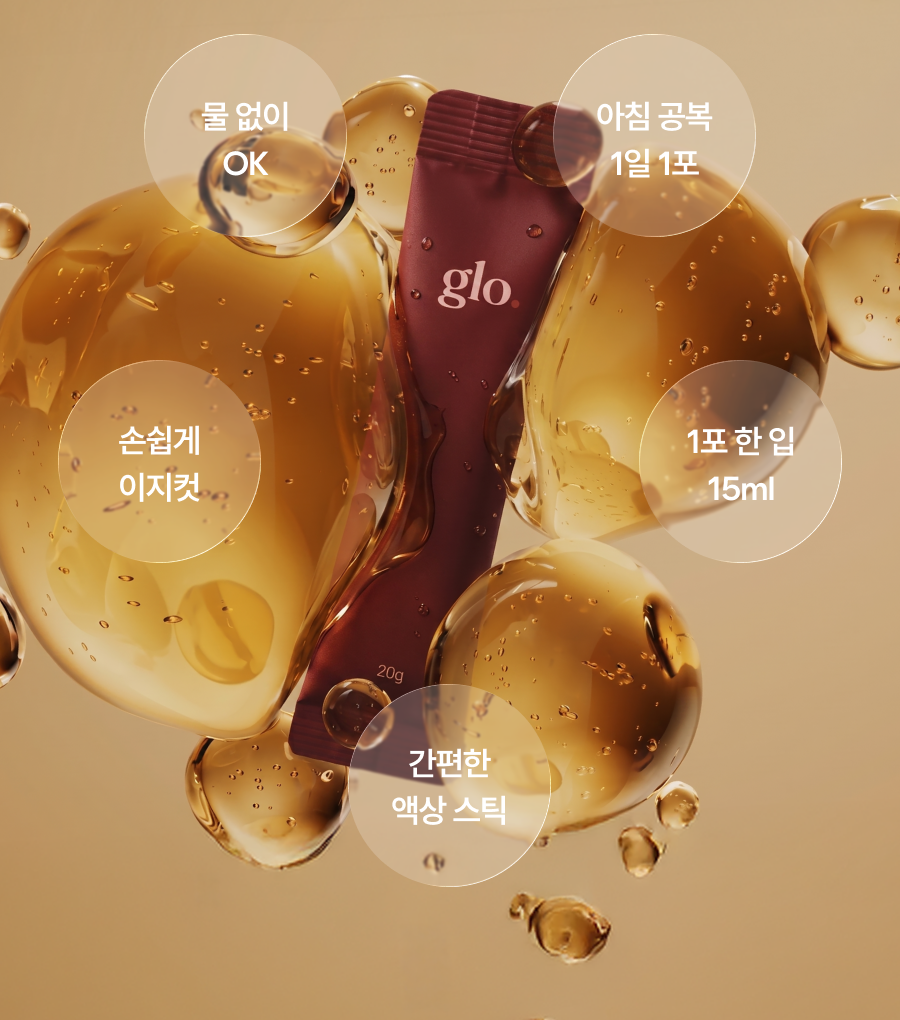
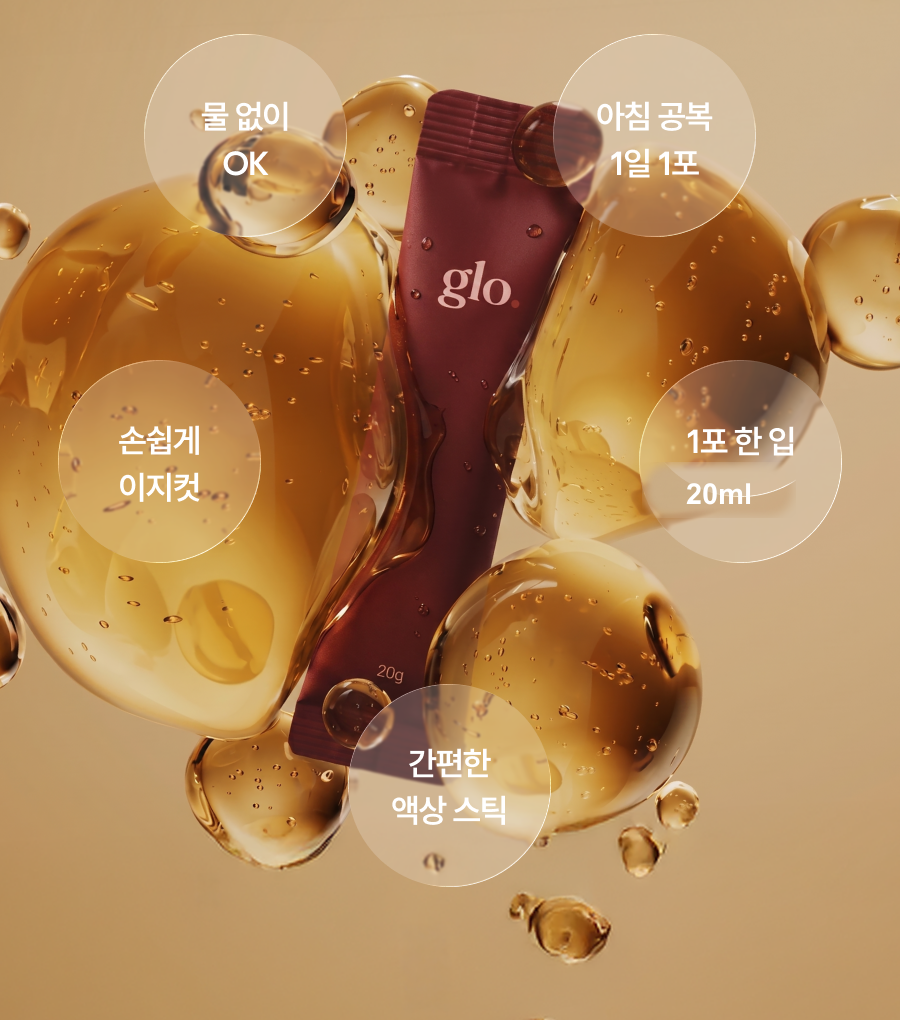
copy/ui(product): dose-validation + ritual + FAQ copy; cut how-to heading; patch image 15ml→20ml
- dose-validation h2 → '임상에서 사용한 용량 그대로 담았어요.'; '줄이지 않았습니다' → '줄이지도 초과하지도 않았습니다'
- ritual '조용한 매일.' and FAQ '정리.' choppy stops reworded into flowing sentences
- how-to section: removed the heading (How to drink / 이렇게 마십니다), image now fills the area
- howto-photo.png: patched the baked-in '15ml' label → '20ml'

Changed region(s): [[0.7156, 0.4559, 0.8711, 0.5167]]

diff --git a/ko/product.html b/ko/product.html
@@ -552,7 +552,7 @@ footer{background:var(--burg-800);padding:64px 0 32px;color:rgba(244,235,235,.6)
 .po-cmp-table .glo-col .po-cmp-sm{color:rgba(244,235,235,.7);}
 
 /* #6 how to drink */
-.po-how{background:#caad85;text-align:center;padding:clamp(60px,9vw,96px) 0 0;overflow:hidden;}
+.po-how{background:#caad85;text-align:center;padding:0;overflow:hidden;}
 .po-how .po-h{color:var(--ink);}
 .po-how-photo{display:block;width:100%;max-width:560px;margin:26px auto 0;-webkit-mask-image:linear-gradient(to bottom,transparent 0,#000 7%);mask-image:linear-gradient(to bottom,transparent 0,#000 7%);}
 
@@ -1109,10 +1109,6 @@ html[lang="ko"] p,html[lang="ko"] .ph-desc,html[lang="ko"] .t-sub,html[lang="ko"
 
 <!-- #6 음용법 — 원본 골든버블 사진 그대로 배경, 헤드라인만 CSS -->
 <section class="po-how">
-  <div class="ctr">
-    <div class="ey clay" style="justify-content:center;"><span class="dash"></span>How to drink</div>
-    <h2 class="po-h">이렇게 <em>마십니다.</em></h2>
-  </div>
   <img class="po-how-photo" src="/assets/images/howto-photo.png" alt="물 없이 OK · 아침 공복 1일 1포 · 1포 한 입 20ml · 손쉽게 이지컷 · 간편한 액상 스틱" width="900" height="1020"/>
 </section>
 
@@ -1122,7 +1118,7 @@ html[lang="ko"] p,html[lang="ko"] .ph-desc,html[lang="ko"] .t-sub,html[lang="ko"
     <div class="dt-head">
       <div>
         <div class="ey clay">Dose validation</div>
-        <h2 class="dt-h">임상에서 실제로<br/><em>사용 된</em> 용량.</h2>
+        <h2 class="dt-h">임상에서 사용한 용량<br/><em>그대로 담았어요.</em></h2>
       </div>
       <p class="dt-sub">아래는 실제 임상에서 사용된 용량과 GL-01 활성 성분의 대조 분석표입니다. 또한, 일반 타사 제품들의 평균 함량과 함께 분석해 보았습니다.<sup class="c">1–10</sup></p>
     </div>
@@ -1138,7 +1134,7 @@ html[lang="ko"] p,html[lang="ko"] .ph-desc,html[lang="ko"] .t-sub,html[lang="ko"
       <div class="vr"><div class="vc vn">Tightening-PB Complex®</div><div class="vc">— (proprietary)</div><div class="vc">OTC 미유통</div><div class="vc vg">10 mg · glo 특허 KR 10-2911449</div></div>
       <div class="vr"><div class="vc vn">Haematococcus extract (astaxanthin)</div><div class="vc">4–12 mg</div><div class="vc">2–4 mg (대부분 합성)</div><div class="vc vg">5 mg · Non-GMO H. pluvialis</div></div>
     </div>
-    <p class="dt-note" style="font-size:14.5px;font-weight:700;color:var(--ink);margin-top:24px;">glo GL-01의 모든 성분은 임상에서 효과가 검증된 용량 그대로입니다. <em style="color:var(--accent);">줄이지 않았습니다.</em></p>
+    <p class="dt-note" style="font-size:14.5px;font-weight:700;color:var(--ink);margin-top:24px;">glo GL-01의 모든 성분은 임상에서 효과가 검증된 용량 그대로입니다. <em style="color:var(--accent);">줄이지도 초과하지도 않았습니다.</em></p>
     <p class="dt-note"><em>전체 용량 근거와 주요 레퍼런스</em> — collagen MW 흡수율 + Tightening-PB 특허 논의 포함 — 은 <a href="/ko/science.html">사이언스 페이지</a>에서 확인하실 수 있습니다.</p>
   </div>
 </section>
@@ -1149,7 +1145,7 @@ html[lang="ko"] p,html[lang="ko"] .ph-desc,html[lang="ko"] .t-sub,html[lang="ko"
     <div class="how-l">
       <div class="ey lt clay"><span class="dash"></span>Ritual</div>
       <h2>언제 어디서나,<br/><em>간편하게.</em></h2>
-      <p>피부 역노화는 꾸준함으로 완성됩니다. 화려한 하루보다 조용한 매일.</p>
+      <p>피부 역노화는 꾸준함으로 완성됩니다. 화려한 하루보다 조용한 매일이 피부를 바꿔요.</p>
     </div>
     <div class="steps">
       <div class="step"><div class="step-n">01</div><div><div class="step-t"><em>매일 </em>섭취해주세요.</div><div class="step-d">파인애플 맛으로 물도 필요 없어요. 식사와 함께 드시면 지용성 성분(아스타잔틴 등)의 흡수율이 높아집니다.</div></div><div class="step-tag">매일</div></div>
@@ -1184,7 +1180,7 @@ html[lang="ko"] p,html[lang="ko"] .ph-desc,html[lang="ko"] .t-sub,html[lang="ko"
     <div class="faq-l">
       <div class="ey clay">FAQ</div>
       <h2>자주 묻는 <em>질문</em></h2>
-      <p>전체 임상 근거는 사이언스 페이지에 정리. 사이언스 팀이 영업일 기준 1일 이내 답변드립니다.</p>
+      <p>전체 임상 근거는 사이언스 페이지에 정리해 두었고, 더 궁금하시면 사이언스 팀이 영업일 기준 1일 이내에 답변드립니다.</p>
     </div>
     <div class="faq-list">
       <div class="faq-item open"><div class="faq-q"><span>왜 한 가지 성분을 고용량으로 안 쓰고 9가지를 쓰나요?</span><span class="faq-mark">+</span></div><div class="faq-a">피부 고민은 하나가 아닙니다. 미백, 수분, 탄력, 항산화 – 이 네 가지는 서로 다른 경로로 작용합니다. 글루타치온을 아무리 많이 먹어도 피부 장벽이 회복되진 않고, 콜라겐만 먹어도 칙칙한 톤이 해결되진 않아요. glo는 각 영역마다 임상에서 효과가 검증된 성분을 하나씩 배치했습니다. 한 가지 성분을 고용량으로 넣는 것보다, 필요한 곳에 필요한 성분을 정확히 넣는 방식입니다.</div></div>
